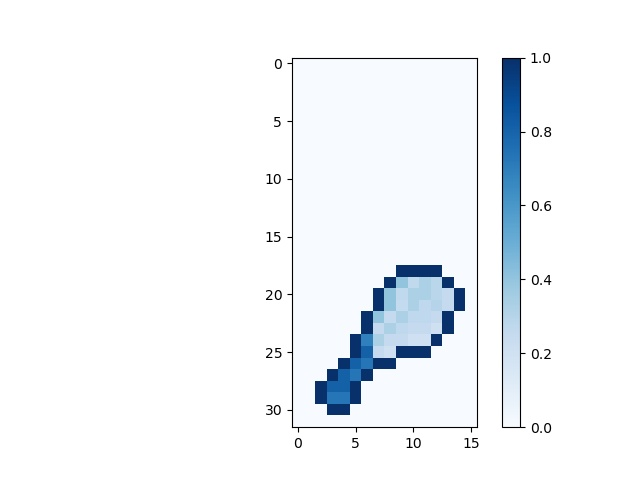
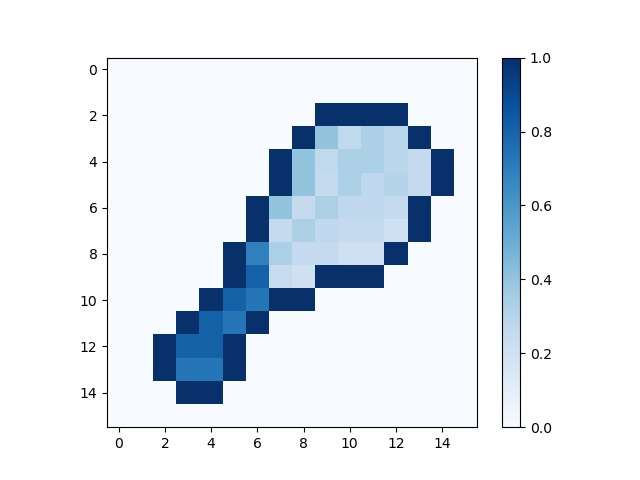
live

diff --git a/spectrogram.py b/spectrogram.py
@@ -54,19 +54,8 @@ def matrixComputing(son_array, frequence_enr, time_step, stereo, plot=False):
     fft_mat = []
     for i in range(int(N / step_index)):
         current_fft = abs(fft(son_array[int(i * step_index): int((i + 1) * step_index)]))[
-                      0:int(step_index)]  # on ne garde que la moitie des valeurs (repetition)
+                      0:int(step_index)]  
         fft_mat.append(current_fft)
-        # print(shape(current_fft))
-        '''if (i == 101):
-            # print(current_fft)
-            # print(shape(current_fft))
-            print(abs(ifft(current_fft)))
-            reversed_sound = real(ifft(current_fft))
-            plt.plot(linspace(0, 1, len(reversed_sound)), reversed_sound)
-            plt.title("test")
-            plt.show()'''
-
-    # print(shape(fft_mat))
 
     if stereo:
         s = shape(fft_mat)
@@ -75,7 +64,7 @@ def matrixComputing(son_array, frequence_enr, time_step, stereo, plot=False):
     return fft_mat, T
 
 def spectroPlotting(fft_mat, T, displayStretch, stereo, cmap):
-    # Plotting
+    # Plotting le spectrogramme
     if not stereo:
         fig, axs = plt.subplots()
         tr =transpose(fft_mat)
@@ -112,7 +101,7 @@ def spectroPlotting(fft_mat, T, displayStretch, stereo, cmap):
             cbar.set_label('Amplitude [1]')
     plt.title('spectrogramme du son')
     plt.show()
-    return
+    return fig,axs
 
 
 def spectrogramme_wav(file, time_step=0.05, play=False, frequence_enregistrement=None, displayStretch=1, cmap='Blues',
@@ -124,8 +113,6 @@ def spectrogramme_wav(file, time_step=0.05, play=False, frequence_enregistrement
 
     fft_mat, T = matrixComputing(son_array, frequence_enr, time_step, stereo)
    
-    image_printer(fft_mat)
-
     spectroPlotting(fft_mat,T, displayStretch, stereo, cmap)
 
     return [fft_mat, frequence_enr ]
@@ -149,23 +136,11 @@ def reconstitution_son(fft_mat_output, frequence_enr, play=False, plot=False):
     if plot:
         plt.title('Son reconstitué')
         plt.legend()
-        plt.plot(linspace(0, 1, len(reconstitution)), reconstitution)
+        plt.plot(reconstitution)
+        plt.savefig('plots/son_reconstitue.png')
         plt.show()
 
     return reconstitution
-
-
-def image_printer(fft_mat_output):
-    """
-    Fonction d'ajout d'une image dans le spectrogramme
-    Entrée:
-    Sortie:
-    """
-    for i in range(len(fft_mat_output)):
-        for j in range(len(fft_mat_output[i])):
-            if j > 20 and j < 30 and i>200 and i<220 :
-                fft_mat_output[i][j] = 800
-    return fft_mat_output
 
 
 

diff --git a/imageProcess.py b/imageProcess.py
@@ -5,8 +5,9 @@ import matplotlib.image as mpimg
 import IPython
 import spectrogram
 
-img = mpimg.imread('images/JBH.png')
-def convertGrayscale(image):
+
+
+def convertGrayscale(image): #convertit une image en nuance de gris
     tmp = []
     for i in range(len(image)):
         tmp1 =[]
@@ -17,11 +18,14 @@ def convertGrayscale(image):
                     tmp1.append(1)           
             else:
                 tmp1.append( 0.2126*image[i][j][0] + 0.7152*image[i][j][1]+0.0722*image[i][j][2])
-            #0,2126 × Rouge + 0,7152 × Vert + 0,0722 × Bleu. 
+            #0,2126 × Rouge + 0,7152 × Vert + 0,0722 × Bleu. pour obtenir le grayscale
         tmp.append(tmp1)
     return np.array(tmp)
 
 
+img = mpimg.imread('images/JBH.png')
+
+#conversion de l'image
 plt.imshow(img)
 plt.savefig('./images/original.jpg')
 plt.show()
@@ -31,9 +35,11 @@ plt.colorbar()
 plt.savefig('./images/final.jpg')
 plt.show()
 
-spectrogram.spectroPlotting(rot90(img,k=-1),16,displayStretch=1,stereo=False,cmap='Blues')
-son = spectrogram.reconstitution_son(img,1)
+
+#traitement de signal sur l'image
+fig,axs = spectrogram.spectroPlotting(rot90(img,k=-1),16,displayStretch=1,stereo=False,cmap='Blues') #image de base dans le spectrogramme 
+son = spectrogram.reconstitution_son(rot90(img,k=-1),1) 
 matrix,T = spectrogram.matrixComputing(son,16,1,stereo=False)
-spectrogram.spectroPlotting(matrix,T,1,False,'Blues')
+fig,axs = spectrogram.spectroPlotting(matrix,T,1,False,'Blues') #image reconstituée dans le spectrogramme
 
 IPython.embed()

diff --git a/main.py b/main.py
@@ -1,8 +1,13 @@
 import spectrogram
 from numpy import transpose
-[fft_mat_output, frequence_enr ] = spectrogram.spectrogramme_wav('audio/filsDuVoisin.wav', displayStretch=1, time_step=0.05, play=False, stereo=False)
-
-son = spectrogram.reconstitution_son(transpose(fft_mat_output),frequence_enr,plot=True,play=False)
-son = transpose(son[0:int(len(son/2))])
+import matplotlib.pyplot as plt
+[fft_mat_output, frequence_enr ] = spectrogram.spectrogramme_wav('audio/filsDuVoisin.wav', displayStretch=1, time_step=.0001, play=False, stereo=False)
+son_original,_ = spectrogram.getSound('audio/filsDuVoisin.wav')
+plt.plot(son_original)
+plt.title('Son original Fils du Voisin')
+plt.legend()
+plt.savefig('plots/Son_original_temporel.png')
+plt.show()
+son = spectrogram.reconstitution_son(fft_mat_output,frequence_enr,plot=True,play=False)
 matrix,T = spectrogram.matrixComputing(son,16,1,stereo=False)
 spectrogram.spectroPlotting(matrix,T,1,False,'Blues')
